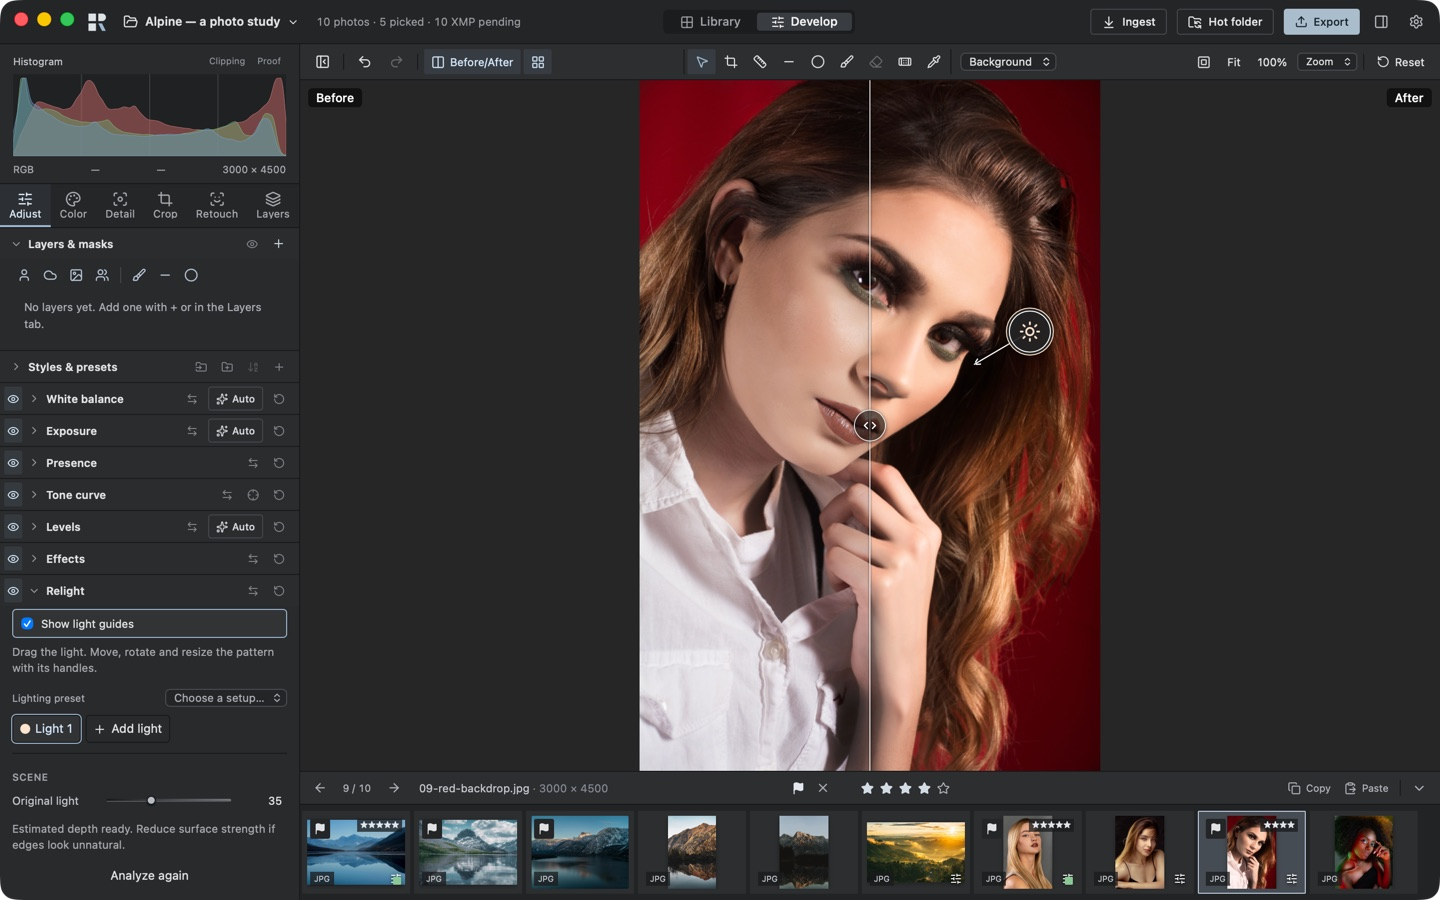
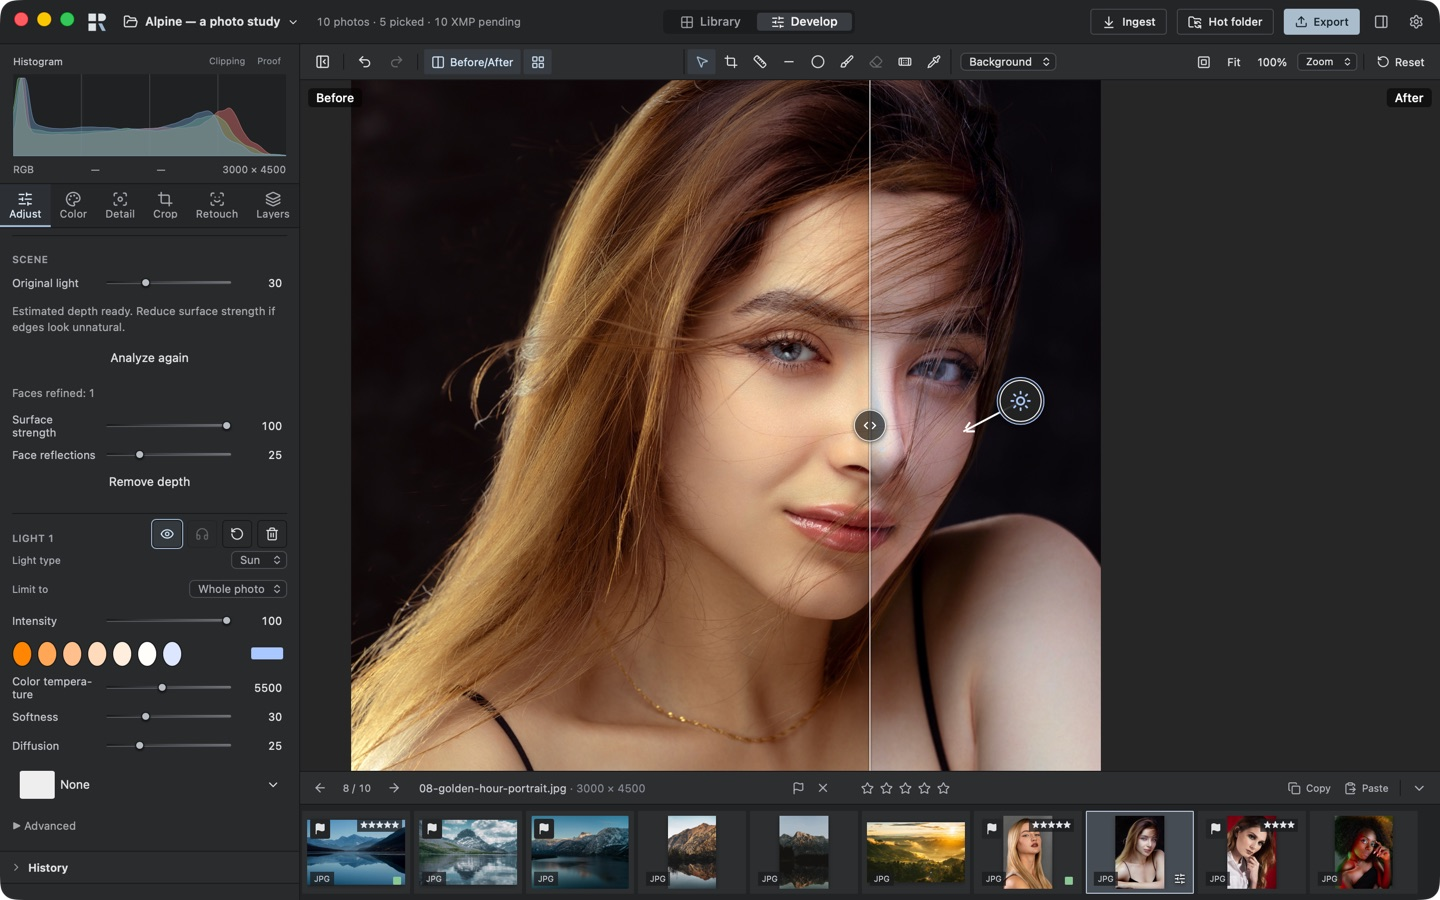
docs(readme): a Relight screenshot where the effect shows
The golden hour portrait in the before/after split: the original warm
light on the left, a new cool light from the other side on the right.

diff --git a/docs/images/CREDITS.md b/docs/images/CREDITS.md
@@ -1,6 +1,6 @@
 # README photography and screenshots
 
-The `readme-*.jpg` images are genuine window captures of Rawtonic on macOS, made in a disposable showcase session: Library and Export with 0.1.0-alpha.1 (October 11, 2026); Develop, Color, Masks, Retouch, Multi view and Relight with 0.1.0-alpha.2 (October 16, 2026). The Relight screenshot shows one added light (intensity 80) with the original light at 35 in the before/after split. They show JPEG photographs, not RAW comparison results. The retouch screenshot shows Rawtonic's automatic face retouch (Blemishes 40, Even skin 20, Dark circles 25) on the studio portrait as rendered by the app; the photographs themselves were not otherwise edited. The source photographs are used under the [Pexels license](https://www.pexels.com/license/); they are not covered by the repository's software license. The photographers do not endorse Rawtonic.
+The `readme-*.jpg` images are genuine window captures of Rawtonic on macOS, made in a disposable showcase session: Library and Export with 0.1.0-alpha.1 (October 11, 2026); Develop, Color, Masks, Retouch, Multi view and Relight with 0.1.0-alpha.2 (October 16, 2026). The Relight screenshot shows the golden hour portrait with one added cool light from the right (intensity 100, colour #a8c8ff) and the original light at 30, in the before/after split at 50 %. They show JPEG photographs, not RAW comparison results. The retouch screenshot shows Rawtonic's automatic face retouch (Blemishes 40, Even skin 20, Dark circles 25) on the studio portrait as rendered by the app; the photographs themselves were not otherwise edited. The source photographs are used under the [Pexels license](https://www.pexels.com/license/); they are not covered by the repository's software license. The photographers do not endorse Rawtonic.
 
 | Photograph in the demo | Photographer                   | Source                                                                                                                                                            |
 | :--------------------- | :----------------------------- | :---------------------------------------------------------------------------------------------------------------------------------------------------------------- |

diff --git a/README.md b/README.md
@@ -113,8 +113,8 @@ The **Develop** room gives the photograph the space: a filmstrip, a histogram an
 <br><b>Multi view.</b> Compare up to twelve selected photographs side by side, with a reference photo and a locked zoom, and edit them all at once.
 </td>
 <td width="50%" valign="top">
-<a href="docs/images/readme-relight.jpg"><img src="docs/images/readme-relight.jpg" alt="Relight in a before/after split: a new warm light brightens the shadow side of a portrait's face"></a>
-<br><b>Relight</b> <i>(experimental)</i>. A new light added after the shoot, here in the before/after split: the shadow side of the face is brightened and the original light turned down.
+<a href="docs/images/readme-relight.jpg"><img src="docs/images/readme-relight.jpg" alt="Relight in a before/after split: left the portrait's original warm light, right a new cool light from the other side"></a>
+<br><b>Relight</b> <i>(experimental)</i>. Light a photograph again after the shoot. Before/after split: on the left the original warm light, on the right a new cool light from the other side with the original turned down.
 </td>
 </tr>
 </table>
